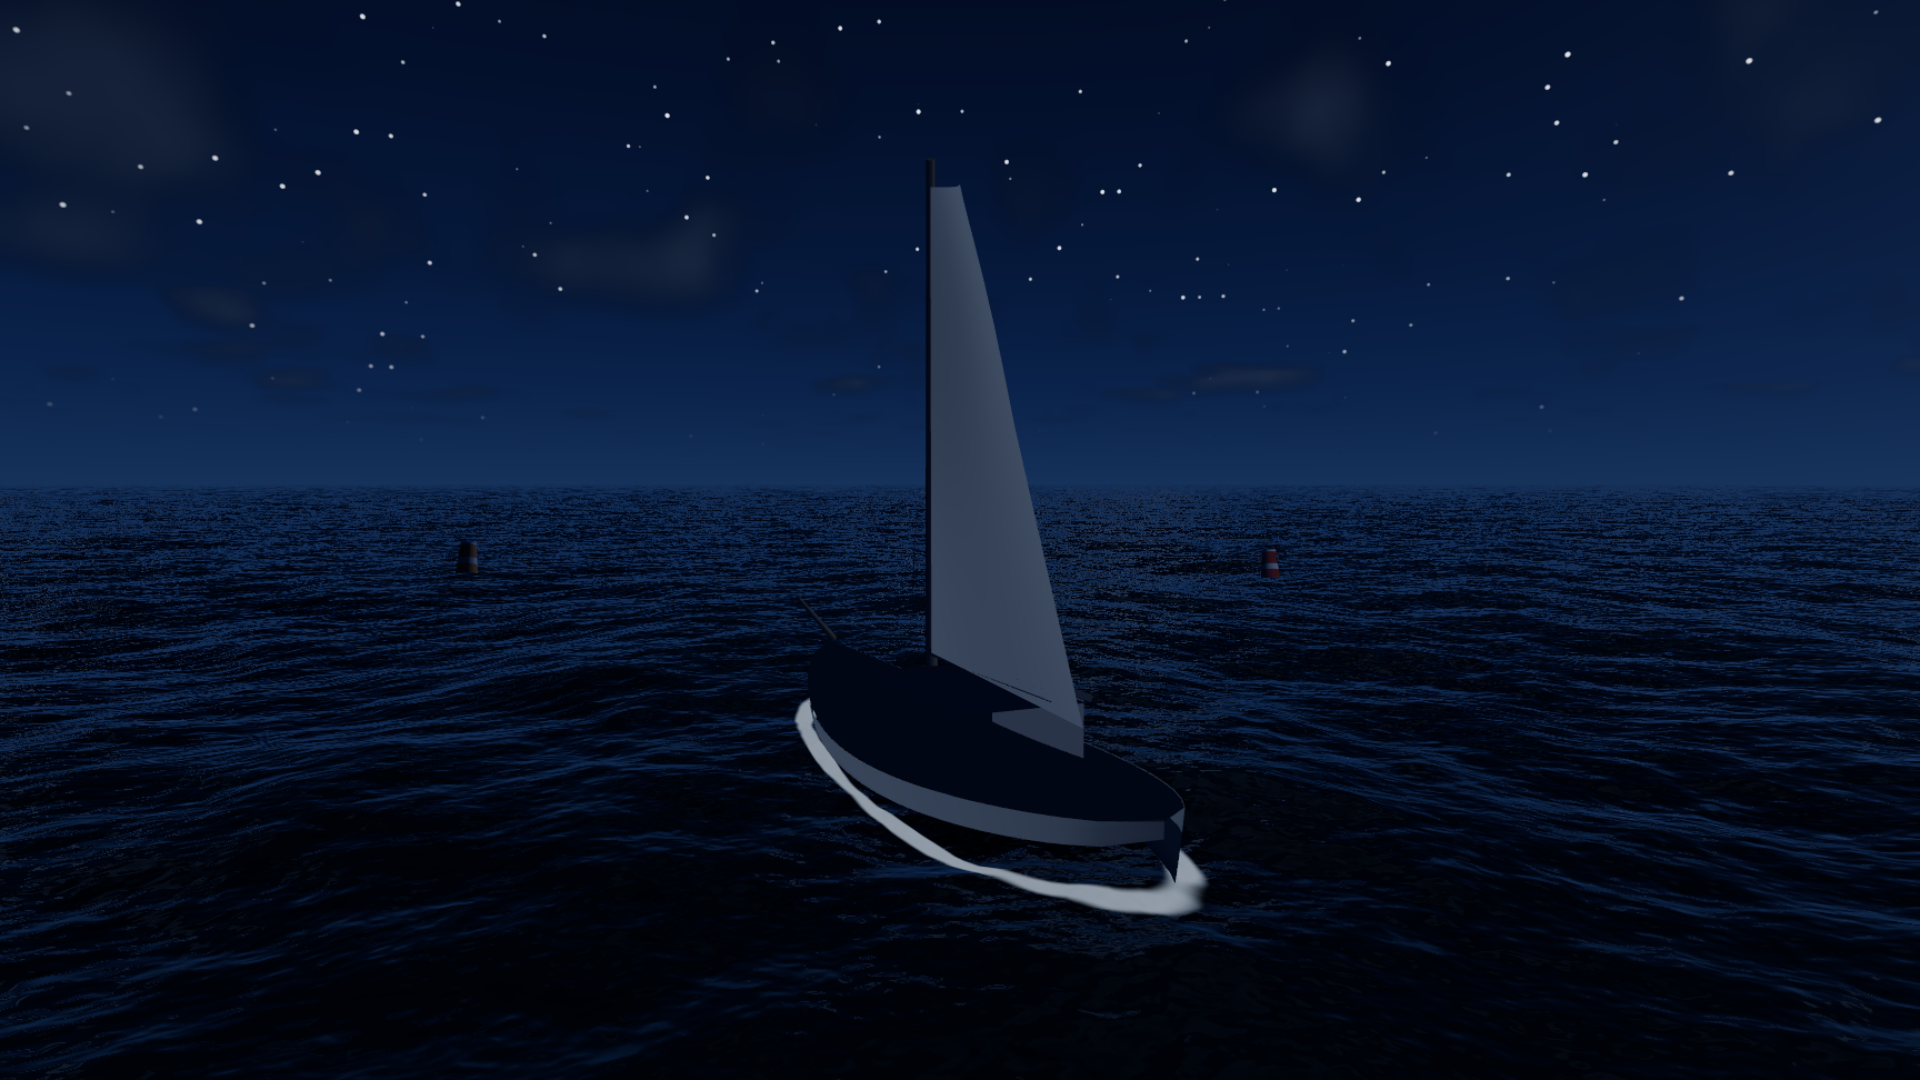
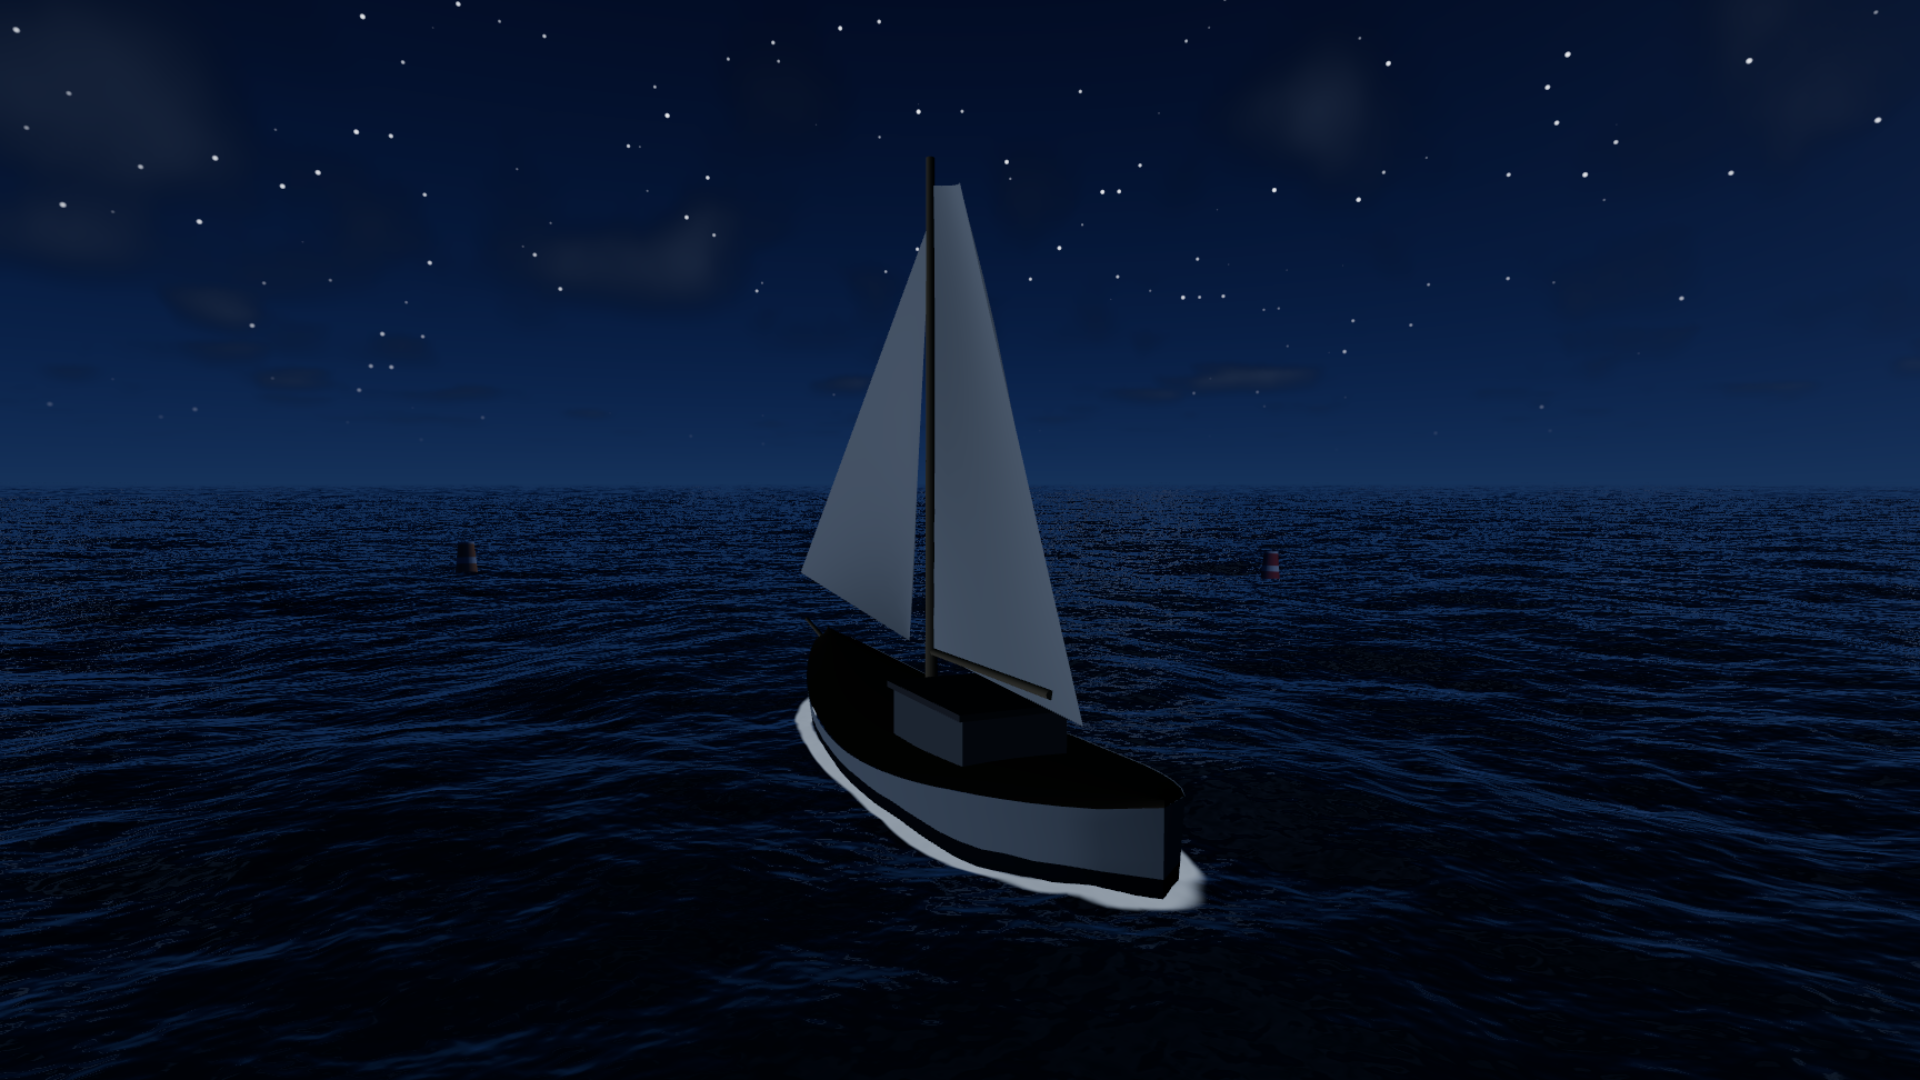
Fix the vessel: it was only ever checked from one angle
Adding five inspection views around the boat (side, low, bow, stern,
overhead) immediately turned up four defects that a single three-quarter
screenshot had hidden. Recording them because the lesson is the harness,
not the boat: a hero object cannot be signed off from one angle, because
the angle you happen to pick is the one you tuned it for.

The hull was not conforming to the water at all. `world.y.assign(...)` on a
swizzle of a `toVar()` compiles without complaint and does nothing, so the
soft-hull fix added in the previous commit never ran and the boat kept its
rigid height. Assigning the whole vector works. While fixing it, the water
height the hull is pulled onto now sums all three cascades rather than just
the swell — the waterline has to match the surface the eye sees, which is
a different question from how the hull responds.

Everything rendered as one flat grey-blue. Rendering the paint attribute
directly showed it was fine, so the fault was in the lighting: a broad
ambient plus an unmodulated sky-coloured rim term meant hull, deck, sail
and cabin all converged on the same value, and contrast between faces is
the entire read of a shape this simple. Replaced with half-Lambert sun plus
a hemisphere ambient that varies with the normal. Half-Lambert also stops
faces pointing away from a 34-degree sun going black — the deck did — and
makes the shading independent of whether each lofted patch came out wound
the right way.
[…]

diff --git a/src/props/vessel.js b/src/props/vessel.js
@@ -20,12 +20,12 @@
 // the difference between a boat and a cork.
 
 import {
-	BoxGeometry, BufferAttribute, BufferGeometry, CylinderGeometry, Mesh,
+	BoxGeometry, BufferAttribute, BufferGeometry, CylinderGeometry, DoubleSide, Mesh,
 	MeshBasicNodeMaterial,
 } from 'three/webgpu';
 import {
-	Fn, attribute, cameraPosition, cross, dot, float, max, mix, normalLocal, normalize,
-	positionGeometry, pow, saturate, smoothstep, texture, varyingProperty, vec2, vec3, vec4,
+	Fn, attribute, cross, dot, faceDirection, float, max, mix, normalLocal, normalize,
+	positionGeometry, saturate, smoothstep, texture, varyingProperty, vec2, vec3, vec4,
 } from 'three/tsl';
 
 /* ------------------------------------------------------------------ shapes */
@@ -34,6 +34,9 @@ const LENGTH_AFT = 7.0;
 const LENGTH_FWD = 8.0;
 const BEAM = 4.4;
 const DRAFT = 2.05;
+
+/** How far the finished hull is dropped so she floats on her lines. */
+const SINK = 1.35;
 
 /** Half-beam at parametric station t, 0 = transom, 1 = stem. */
 function halfBeam( t ) {
@@ -48,7 +51,7 @@ function halfBeam( t ) {
 function sheer( t ) {
 
 	const s = t * 2 - 1;
-	return 1.02 + 0.62 * s * s + 0.18 * s * s * s;
+	return 1.85 + 0.85 * s * s + 0.25 * s * s * s;
 
 }
 
@@ -74,12 +77,13 @@ class Builder {
 		this.pos = [];
 		this.nrm = [];
 		this.col = [];
+		this.cvs = [];
 		this.idx = [];
 
 	}
 
 	/** @param {number[]} colour linear RGB */
-	add( geometry, colour ) {
+	add( geometry, colour, translucent = 0 ) {
 
 		const base = this.pos.length / 3;
 		const p = geometry.attributes.position.array;
@@ -87,7 +91,12 @@ class Builder {
 
 		for ( let i = 0; i < p.length; i ++ ) this.pos.push( p[ i ] );
 		for ( let i = 0; i < n.length; i ++ ) this.nrm.push( n[ i ] );
-		for ( let i = 0; i < p.length / 3; i ++ ) this.col.push( colour[ 0 ], colour[ 1 ], colour[ 2 ] );
+		for ( let i = 0; i < p.length / 3; i ++ ) {
+
+			this.col.push( colour[ 0 ], colour[ 1 ], colour[ 2 ] );
+			this.cvs.push( translucent );
+
+		}
 
 		const index = geometry.index.array;
 		for ( let i = 0; i < index.length; i ++ ) this.idx.push( index[ i ] + base );
@@ -102,6 +111,7 @@ class Builder {
 		g.setAttribute( 'position', new BufferAttribute( new Float32Array( this.pos ), 3 ) );
 		g.setAttribute( 'normal', new BufferAttribute( new Float32Array( this.nrm ), 3 ) );
 		g.setAttribute( 'paint', new BufferAttribute( new Float32Array( this.col ), 3 ) );
+		g.setAttribute( 'canvas', new BufferAttribute( new Float32Array( this.cvs ), 1 ) );
 		g.setIndex( this.idx );
 		return g;
 
@@ -170,16 +180,31 @@ function buildGeometry() {
 
 	};
 
-	// Bottom: |s| in [0, BOOT].
-	const BOOT = 0.90;
+	// The boot top is a *height*, a little above the waterline, so it has to be
+	// solved per station rather than fixed at a section parameter. Splitting at a
+	// constant |s| put it 1.2 m above the water amidships and painted the entire
+	// topside dark — the boat looked like it was sinking.
+	const BOOT_Y = 0.22;
 
-	b.add( loft( 30, 18, ( t, v ) => section( t, ( v * 2 - 1 ) * BOOT ) ), [ 0.045, 0.070, 0.080 ] );
+	const bootAt = ( t ) => {
 
-	// Topsides: the two flanks above the boot top, port and starboard.
+		const kd = keel( t );
+		return Math.min( 0.97, Math.pow( Math.max( 0, ( BOOT_Y + SINK + kd ) / ( sheer( t ) + kd ) ), 1 / 1.75 ) );
+
+	};
+
+	// Bottom: keel up to the boot top.
+	b.add( loft( 30, 18, ( t, v ) => section( t, ( v * 2 - 1 ) * bootAt( t ) ) ), [ 0.030, 0.048, 0.062 ] );
+
+	// Topsides: the two flanks above it.
 	for ( const sign of [ - 1, 1 ] ) {
 
-		b.add( loft( 30, 3, ( t, v ) => section( t, sign * ( BOOT + v * ( 1 - BOOT ) ) ) ),
-			[ 0.68, 0.66, 0.60 ] );
+		b.add( loft( 30, 4, ( t, v ) => {
+
+			const a = bootAt( t );
+			return section( t, sign * ( a + v * ( 1 - a ) ) );
+
+		} ), [ 0.55, 0.56, 0.54 ] );
 
 	}
 
@@ -197,12 +222,12 @@ function buildGeometry() {
 	} ), [ 0.30, 0.21, 0.125 ] );
 
 	// --- cabin
-	const cabin = new BoxGeometry( 2.5, 1.15, 3.6 );
-	cabin.translate( 0, sheer( 0.42 ) + 0.62, - 1.1 );
-	b.add( cabin, [ 0.52, 0.50, 0.47 ] );
+	const cabin = new BoxGeometry( 2.05, 0.95, 3.2 );
+	cabin.translate( 0, sheer( 0.42 ) + 0.52, - 1.1 );
+	b.add( cabin, [ 0.30, 0.30, 0.29 ] );
 
-	const roof = new BoxGeometry( 2.7, 0.14, 3.8 );
-	roof.translate( 0, sheer( 0.42 ) + 1.24, - 1.1 );
+	const roof = new BoxGeometry( 2.25, 0.12, 3.4 );
+	roof.translate( 0, sheer( 0.42 ) + 1.04, - 1.1 );
 	b.add( roof, [ 0.20, 0.19, 0.185 ] );
 
 	// --- mast, boom, bowsprit
@@ -217,9 +242,9 @@ function buildGeometry() {
 	boom.translate( 0, deckY + 1.45, - 1.4 );
 	b.add( boom, [ 0.42, 0.32, 0.20 ] );
 
-	const sprit = new CylinderGeometry( 0.055, 0.085, 3.4, 8 );
+	const sprit = new CylinderGeometry( 0.05, 0.075, 2.8, 8 );
 	sprit.rotateX( Math.PI / 2.32 );
-	sprit.translate( 0, sheer( 1 ) + 0.55, LENGTH_FWD + 1.15 );
+	sprit.translate( 0, sheer( 0.985 ) - 0.15, LENGTH_FWD + 0.55 );
 	b.add( sprit, [ 0.42, 0.32, 0.20 ] );
 
 	// --- mainsail: a cambered quad from the mast to the boom end. The belly is
@@ -235,7 +260,7 @@ function buildGeometry() {
 
 		return [ belly, luffY - v * 0.30, z ];
 
-	} ), [ 0.80, 0.78, 0.72 ] );
+	} ), [ 0.80, 0.78, 0.72 ], 1 );
 
 	// --- jib
 	b.add( loft( 8, 8, ( t, v ) => {
@@ -257,7 +282,7 @@ function buildGeometry() {
 			lz + ( clew[ 2 ] - lz ) * v,
 		];
 
-	} ), [ 0.78, 0.76, 0.71 ] );
+	} ), [ 0.78, 0.76, 0.71 ], 1 );
 
 	const g = b.build();
 
@@ -267,7 +292,7 @@ function buildGeometry() {
 	// the underbody. Sitting deeper puts the mismatch below the waterline, where
 	// it is invisible, which is cheaper and steadier than any amount of extra
 	// sampling.
-	g.translate( 0, - 0.55, 0 );
+	g.translate( 0, - SINK, 0 );
 	return g;
 
 }
@@ -319,11 +344,14 @@ export class Vessel {
 
 		const material = new MeshBasicNodeMaterial();
 		material.name = 'Vessel';
+		// The sails are single sheets and the hull shell is open at the deck, so
+		// backfaces are visible from ordinary viewpoints.
+		material.side = DoubleSide;
 
 		const vNormal = varyingProperty( 'vec3', 'vVesNormal' );
 		const vPaint = varyingProperty( 'vec3', 'vVesPaint' );
 		const vLocalY = varyingProperty( 'float', 'vVesLocalY' );
-		const vWorld = varyingProperty( 'vec3', 'vVesWorld' );
+		const vTranslucent = varyingProperty( 'float', 'vVesTranslucent' );
 
 		material.positionNode = Fn( () => {
 
@@ -369,9 +397,26 @@ export class Vessel {
 				// rig stay rigid, which is what carries the boat's pitch and roll. It
 				// bends the hull by a few centimetres in exchange for a waterline that
 				// is correct everywhere, and the bend is under water.
-				const here = texture( spectral.disp[ 0 ], world.xz.div( spectral.sizes[ 0 ] ), float( 0 ) ).y;
+				// Sample every cascade, not just the swell: the waterline has to match
+				// the surface the eye sees, and the chop cascades are a third of a
+				// metre of it. (The *rigid* placement above still uses cascade 0
+				// alone — that is about how a hull responds, which is a different
+				// question from where the water is.)
+				const wxz = world.xz.toVar( 'vesWXZ' );
+				const here = float( 0 ).toVar( 'vesWaterY' );
+
+				for ( let c = 0; c < spectral.sizes.length; c ++ ) {
+
+					here.addAssign( texture( spectral.disp[ c ], wxz.div( spectral.sizes[ c ] ), float( 0 ) ).y );
+
+				}
+
 				const sink = smoothstep( 0.80, - 0.05, p.y ).toVar( 'vesSink' );
-				world.y.assign( mix( world.y, here.add( p.y ), sink ) );
+
+				// Assigning through a swizzle — world.y.assign(...) — compiles without
+				// complaint and does nothing. The hull kept its rigid height and hung
+				// above the water exactly as before the conform was written.
+				world.assign( vec3( world.x, mix( world.y, here.add( p.y ), sink ), world.z ) );
 
 			}
 
@@ -379,8 +424,8 @@ export class Vessel {
 				tangent.mul( normalLocal.x ).add( normal.mul( normalLocal.y ) ).add( bitangent.mul( normalLocal.z ) )
 			) );
 			vPaint.assign( attribute( 'paint', 'vec3' ) );
+			vTranslucent.assign( attribute( 'canvas', 'float' ) );
 			vLocalY.assign( p.y );
-			vWorld.assign( world );
 
 			return world;
 
@@ -388,33 +433,51 @@ export class Vessel {
 
 		material.colorNode = Fn( () => {
 
-			const n = normalize( vNormal ).toVar( 'vesNorm' );
-			const nDotL = saturate( dot( n, u.sunDir ) ).toVar( 'vesNdL' );
-
-			const skyLight = mix( u.skyHorizon, u.skyZenith, 0.42 ).toVar( 'vesSky' );
-			const ambient = u.sunIntensity.mul( 0.50 ).add( 0.40 ).toVar( 'vesAmb' );
+			// Sails and the thin parts of the rig are single-sided sheets, so the
+			// normal is only right for one of the two faces. Taking the side facing
+			// the eye, rather than the one the winding order happens to give, is
+			// what stops a sail from going black the moment you walk around it.
+			const n = normalize( vNormal ).mul( faceDirection ).toVar( 'vesNorm' );
 
 			const paint = vPaint.toVar( 'vesPaint' );
 
-			// Anything below the waterline is seen through the water column, so it
-			// takes the water's colour rather than its own.
-			const submerged = smoothstep( 0.10, - 0.45, vLocalY ).toVar( 'vesSub' );
-			paint.assign( mix( paint, paint.mul( u.waterShallow ).mul( 2.0 ), submerged ) );
+			// Anything below the waterline is seen through the water column.
+			const submerged = smoothstep( 0.10, - 0.55, vLocalY ).toVar( 'vesSub' );
+			paint.assign( mix( paint, paint.mul( u.waterShallow ).mul( 1.9 ), submerged ) );
 
-			// A hull sits in a bowl of reflected light. Skylight from above, plus a
-			// weaker bounce from the water below, which is what stops the underside
-			// of the sheer and the boom from going flat black.
-			const up = saturate( n.y ).toVar( 'vesUp' );
-			const down = saturate( n.y.negate() ).toVar( 'vesDown' );
+			const skyLight = mix( u.skyHorizon, u.skyZenith, 0.42 ).toVar( 'vesSky' );
 
-			const V = normalize( cameraPosition.sub( vWorld ) ).toVar( 'vesV' );
-			const rim = pow( saturate( float( 1 ).sub( saturate( dot( n, V ) ) ) ), 3.0 ).mul( 0.30 );
+			// Direct sun, hard. The previous version wrapped this into a broad
+			// ambient and then added an unmodulated sky-coloured rim on top, which
+			// meant every surface — hull, deck, sail, cabin — converged on the same
+			// mid grey-blue and the boat rendered as a flat cut-out. Contrast
+			// between faces is the entire read of a shape this simple.
+			// Half-Lambert. A terminator that reaches zero turns any face pointing
+			// away from a 34-degree sun into a black hole — the deck did exactly
+			// that — and it makes the shading hostage to whether each lofted patch
+			// happened to come out wound the right way.
+			const sun = saturate( dot( n, u.sunDir ).mul( 0.5 ).add( 0.5 ) ).toVar( 'vesSun' );
+			const sunSq = sun.mul( sun ).toVar( 'vesSunSq' );
+
+			// Hemisphere ambient: sky from above, water bounce from below. This is
+			// the term that keeps the shaded side from going black, and because it
+			// varies with the normal it still describes the form.
+			const hemi = mix(
+				u.waterShallow.mul( 0.55 ),
+				skyLight,
+				saturate( n.y.mul( 0.5 ).add( 0.5 ) )
+			).mul( u.sunIntensity.mul( 0.35 ).add( 0.30 ) ).toVar( 'vesHemi' );
 
 			const lit = paint.mul(
-				u.sunColor.mul( nDotL.mul( u.sunIntensity ).mul( 1.05 ) )
-					.add( skyLight.mul( ambient.mul( 0.55 ).mul( up.mul( 0.7 ).add( 0.3 ) ) ) )
-					.add( u.waterShallow.mul( ambient.mul( 0.30 ).mul( down ) ) )
-			).add( skyLight.mul( rim ) );
+				u.sunColor.mul( sunSq.mul( u.sunIntensity ).mul( 1.30 ) ).add( hemi )
+			).toVar( 'vesLit' );
+
+			// Sails are thin and translucent: backlit, they glow rather than fall
+			// into silhouette. Without this the leeward side of every sail is a flat
+			// dark shape, which is the single most obvious way canvas reads as sheet
+			// metal.
+			const through = saturate( dot( n.negate(), u.sunDir ) ).mul( vTranslucent );
+			lit.addAssign( paint.mul( u.sunColor ).mul( through.mul( u.sunIntensity ).mul( 0.85 ) ) );
 
 			return vec4( max( lit, vec3( 0.0 ) ), 1.0 );
 
